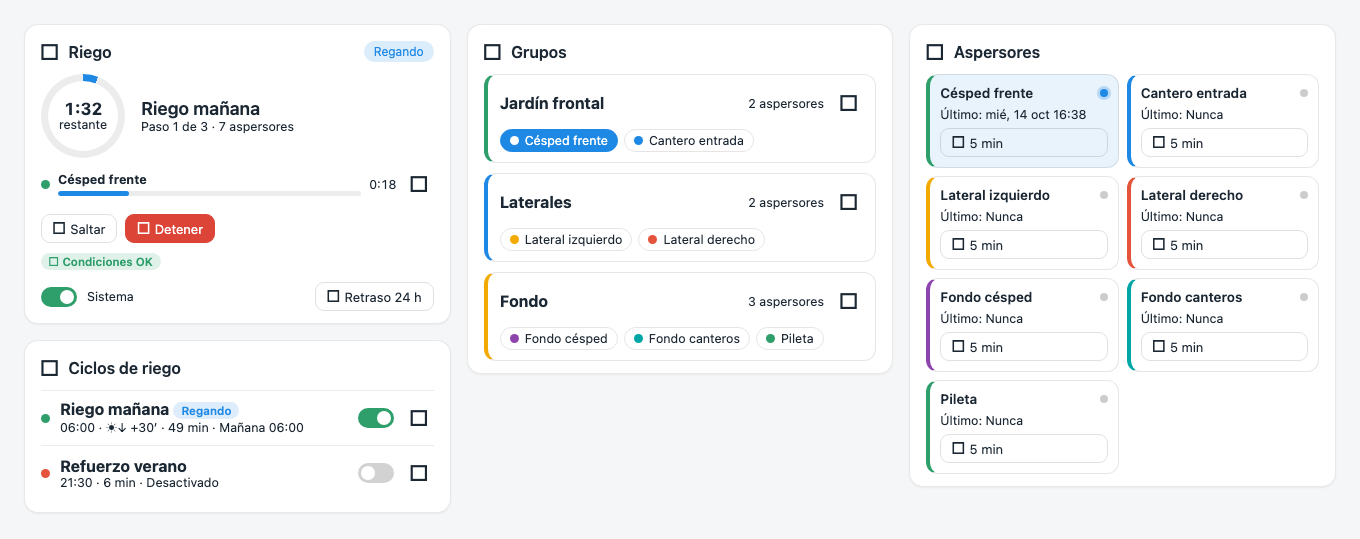
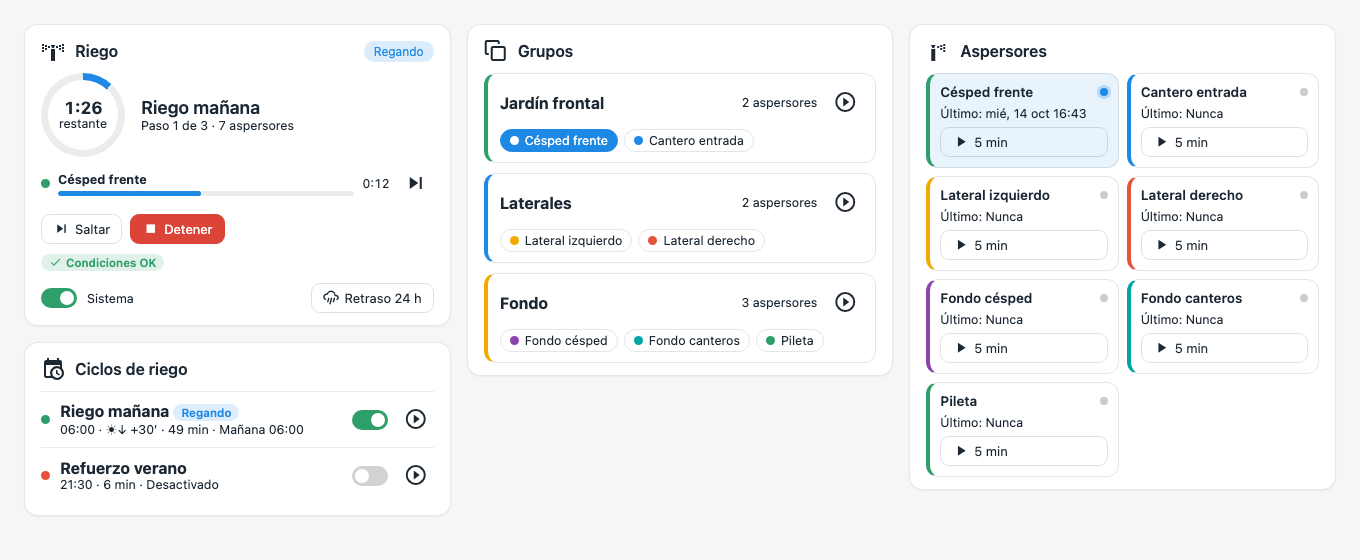
WIP 1.3.0: interactive drag-to-adjust timeline with zoom, docs
- Program editor timeline: drag a bar's edge to change that sprinkler's time
  (30 s steps, auto-switches the step to per-sprinkler times), drag the bar
  to reorder within its group; fixed scale while dragging; zoom levels with
  horizontal scroll, sticky labels and adaptive axis ticks.
- Sidebar preview keeps the KPIs; README sections for cards, timeline and
  donations; refreshed screenshots; CHANGELOG 1.3.0 (unreleased).

diff --git a/custom_components/sk_irrigation/frontend/sk-irrigation-panel.js b/custom_components/sk_irrigation/frontend/sk-irrigation-panel.js
@@ -99,7 +99,7 @@ class SkIrrigationPanel extends HTMLElement {
     sr.addEventListener("pointerdown", (e) => this._onPointerDown(e));
     sr.addEventListener("pointermove", (e) => this._onPointerMove(e));
     sr.addEventListener("pointerup", (e) => this._onPointerUp(e));
-    sr.addEventListener("pointercancel", () => this._cancelDrag());
+    sr.addEventListener("pointercancel", () => { if (this._tl) this._tlCancel(); else this._cancelDrag(); });
     sr.addEventListener("keydown", (e) => {
       if (this._pk && (e.target.dataset?.bind === "pk-search" || e.target.dataset?.suggest || e.key === "Escape")) this._pkKey(e);
     });
@@ -262,7 +262,7 @@ class SkIrrigationPanel extends HTMLElement {
   _programPlan(program) {
     const factor = (this._budget() / 100) * ((program.budget ?? 100) / 100);
     const maxMin = this._config.settings.max_zone_minutes || 120;
-    return (program.steps || []).map((step) => {
+    return (program.steps || []).map((step, si) => {
       const g = this._group(step.group_id);
       if (!g) return null;
       const skip = new Set(step.skip || []);
@@ -272,7 +272,7 @@ class SkIrrigationPanel extends HTMLElement {
         minutes = Math.min(Number(minutes) || 0, maxMin);
         return { zone_id: z.id, name: z.name, color: z.color, seconds: Math.round(minutes * 60 * factor) };
       }).filter((z) => z.seconds > 0);
-      return { label: g.name, color: g.color, concurrency: step.concurrency, zones };
+      return { label: g.name, color: g.color, concurrency: step.concurrency, zones, si };
     }).filter((s) => s && s.zones.length);
   }
 
@@ -794,8 +794,14 @@ class SkIrrigationPanel extends HTMLElement {
           ${section(2, "", this.t("calendar"), calendar)}
           ${section(3, "", this.t("start_times"), starts)}
           ${section(4, "", this.t("conditions_title"), `<p class="hint">${this.t("prog_cond_hint")}</p>${this._condEditorHtml("prog")}`)}
-          ${section(5, "", this.t("sequence"), sequence)}
-          ${section(6, "", this.t("advanced"), advanced)}
+          <div class="card tl-card"><div class="hd"><span class="section-n">5</span><h2>${this.t("tl_title")}</h2>
+            <span class="badge blue"><ha-icon icon="mdi:gesture-swipe-horizontal" style="--mdc-icon-size:14px"></ha-icon>${this.t("tl_badge")}</span>
+            <div class="seg tl-zoom"><button data-action="tl-zoom" data-v="-1" title="${this.t("zoom_out")}"><ha-icon icon="mdi:magnify-minus-outline"></ha-icon></button>
+              <button class="${this._tlZoom ? "" : "on"}" data-action="tl-zoom" data-v="0" title="${this.t("zoom_fit")}"><ha-icon icon="mdi:arrow-expand-horizontal"></ha-icon></button>
+              <button data-action="tl-zoom" data-v="1" title="${this.t("zoom_in")}"><ha-icon icon="mdi:magnify-plus-outline"></ha-icon></button></div></div>
+            <div class="bd" id="tl-body">${this._timelineHtml()}</div></div>
+          ${section(6, "", this.t("sequence"), sequence)}
+          ${section(7, "", this.t("advanced"), advanced)}
         </div>
         <div class="side">
           <div class="card"><div class="hd"><h3><ha-icon icon="mdi:vector-arrange-below"></ha-icon>${this.t("groups_palette")}</h3></div><div class="bd">
@@ -883,23 +889,142 @@ class SkIrrigationPanel extends HTMLElement {
     const zoneCount = sim.bars.length;
     const water = sim.bars.reduce((acc, b) => acc + ((this._zone(b.zone_id)?.flow_rate || 0) * b.seconds) / 60, 0);
     const cap = this._config.settings.max_concurrent;
-    const ticks = [0, 0.25, 0.5, 0.75, 1].map((f) => fmtDur(total * f));
     return `<div class="hd"><h3><ha-icon icon="mdi:chart-gantt"></ha-icon>${this.t("preview")}</h3></div><div class="bd">
       <div class="kpis"><div class="kpi"><b>${fmtDur(sim.total)}</b><span>${this.t("est_duration")}</span></div>
         <div class="kpi"><b>${zoneCount}</b><span>${this.t("zones")}</span></div>
         <div class="kpi"><b>${water ? `${Math.round(water)} L` : "—"}</b><span>${this.t("h_water")}</span></div></div>
-      ${sim.bars.length ? `<div class="sub muted small" style="margin:14px 0 8px">${this.t("timeline")}</div>
-      <div class="timeline">${sim.bars.map((b) => `<div class="tl-row"><span class="lab">${esc(b.name)}</span>
-        <div class="tl-track"><span class="tl-bar" style="--c:${esc(b.color)};left:${(b.start / total) * 100}%;width:${((b.end - b.start) / total) * 100}%"
-          title="${esc(b.name)} · ${fmtDur(b.end - b.start)}"></span></div></div>`).join("")}</div>
-      <div class="tl-axis"><span>${ticks[0]}</span><span>${ticks[2]}</span><span>${ticks[4]}</span></div>` : ""}
       <p class="hint" style="margin-top:12px">${this.t("sim_hint", { b: Math.round(this._budget() * (p.budget / 100)), c: cap || this.t("unlimited") })}</p>
     </div>`;
+  }
+
+  // ------------------------------------------------------------ interactive timeline
+  // Gantt of the program being edited. Drag a bar's right edge to change that
+  // sprinkler's time (30 s steps); drag the bar sideways to change its start
+  // order inside its group. The scale stays fixed while dragging.
+  _tlTicks(total) {
+    const nice = [60, 120, 300, 600, 900, 1800, 3600, 7200, 14400];
+    // ~7 ticks when fitted; with zoom, one tick every ~90 px
+    const target = this._tlZoom ? 90 / (this._tlZoom / 60) : total / 7;
+    const step = nice.find((n) => n >= target) || 14400;
+    const out = [];
+    for (let t = 0; t <= total + 1; t += step) out.push(t);
+    return { step, out };
+  }
+
+  _tlFactor() {
+    return (this._budget() / 100) * ((this._edit.budget ?? 100) / 100);
+  }
+
+  _timelineHtml() {
+    const p = this._edit;
+    const s = this._config.settings;
+    const plan = this._programPlan(p);
+    const zd = p.zone_delay_s >= 0 ? p.zone_delay_s : s.zone_delay_s;
+    const sd = p.step_delay_s >= 0 ? p.step_delay_s : s.step_delay_s;
+    const sim = simulate(plan, s.max_concurrent, zd, sd);
+    this._tlData = { plan, sim };
+    if (!sim.bars.length) return `<div class="empty small">${this.t("tl_empty")}</div>`;
+    const total = Math.max(60, sim.total);
+    const { step, out } = this._tlTicks(total);
+    const pct = (sec) => (sec / total) * 100;
+    const gridBg = `background-size:${pct(step)}% 100%`;
+    const can = this._can();
+    let html = "";
+    plan.forEach((ps, pi) => {
+      const conc = ps.concurrency === 0 ? this.t("all") : ps.concurrency === 1 ? this.t("sequential") : `${ps.concurrency} ${this.t("at_once")}`;
+      html += `<div class="tl2-step" style="--c:${esc(ps.color)}"><span class="dot" style="background:${esc(ps.color)}"></span>
+        ${pi + 1}. ${esc(ps.label)} <span class="muted">· ${conc}</span></div>`;
+      sim.bars.filter((b) => b.step === pi).forEach((b) => {
+        const secs = b.end - b.start;
+        html += `<div class="tl2-row"><span class="tl2-lab" title="${esc(b.name)}">${esc(b.name)}</span>
+          <div class="tl2-track" style="${gridBg}">
+            <div class="tl2-bar ${can ? "" : "ro"}" ${can ? `data-tl="move"` : ""} data-si="${ps.si}" data-z="${esc(b.zone_id)}" data-total="${total}"
+              data-start="${b.start}" data-secs="${secs}" style="--c:${esc(b.color)};left:${pct(b.start)}%;width:${pct(secs)}%"
+              title="${esc(b.name)} · ${fmtDur(secs)} (${fmtDur(b.start)} → ${fmtDur(b.end)})">
+              <span class="tl2-txt">${fmtDur(secs)}</span>
+              ${can ? `<i class="tl2-h" data-tl="resize"></i>` : ""}
+            </div>
+          </div></div>`;
+      });
+    });
+    const axis = out.map((t) => `<span style="left:${pct(t)}%">${t === 0 ? "0" : fmtDur(t)}</span>`).join("");
+    const zoom = this._tlZoom || 0; // px per minute, 0 = fit to width
+    const width = zoom ? `style="--tlw:${Math.round((total / 60) * zoom)}px"` : "";
+    return `<p class="hint">${this.t("tl_hint")}</p>
+      <div class="tl2-scroll"><div class="tl2 ${zoom ? "zoomed" : ""}" ${width}>${html}
+        <div class="tl2-row axis"><span></span><div class="tl2-axis">${axis}</div></div></div></div>`;
+  }
+
+  _tlDown(e, handle) {
+    const bar = handle.closest(".tl2-bar");
+    const rect = bar.parentElement.getBoundingClientRect();
+    this._tl = { mode: handle.dataset.tl, bar, si: Number(bar.dataset.si), z: bar.dataset.z, x: e.clientX, w: rect.width,
+      total: Number(bar.dataset.total), start: Number(bar.dataset.start), secs: Number(bar.dataset.secs), moved: false };
+    try { bar.setPointerCapture(e.pointerId); } catch (err) { /* ignore */ }
+    bar.classList.add("dragging");
+    e.preventDefault();
+  }
+
+  _tlMove(e) {
+    const d = this._tl;
+    const dx = e.clientX - d.x;
+    if (Math.abs(dx) > 3) d.moved = true;
+    const dsec = (dx / d.w) * d.total;
+    const txt = d.bar.querySelector(".tl2-txt");
+    if (d.mode === "resize") {
+      d.newSecs = Math.max(30, Math.round((d.secs + dsec) / 30) * 30);
+      d.bar.style.width = `${(d.newSecs / d.total) * 100}%`;
+      if (txt) txt.textContent = fmtDur(d.newSecs);
+      d.bar.dataset.tip = fmtDur(d.newSecs);
+    } else {
+      d.newStart = Math.max(0, d.start + dsec);
+      d.bar.style.transform = `translateX(${dx}px)`;
+      d.bar.dataset.tip = `${fmtDur(d.newStart)} →`;
+    }
+  }
+
+  _tlUp() {
+    const d = this._tl;
+    this._tl = null;
+    d.bar.classList.remove("dragging");
+    delete d.bar.dataset.tip;
+    if (!d.moved) { d.bar.style.transform = ""; return; }
+    const st = this._edit.steps[d.si];
+    const g = st && this._group(st.group_id);
+    if (!g) return;
+    if (d.mode === "resize") {
+      const factor = this._tlFactor() || 1;
+      const minutes = Math.max(0.5, Math.round((d.newSecs / 60 / factor) * 2) / 2);
+      if (st.duration_mode !== "custom") {
+        st.duration_mode = "custom";
+        g.zone_ids.forEach((z) => { if (st.durations[z] === undefined) st.durations[z] = st.duration; });
+        this._toast(this.t("tl_mode_switched", { g: g.name }));
+      }
+      st.durations[d.z] = minutes;
+    } else {
+      const { plan, sim } = this._tlData;
+      const others = sim.bars.filter((b) => plan[b.step].si === d.si && b.zone_id !== d.z).sort((a, b) => a.start - b.start);
+      const before = others.find((b) => b.start > d.newStart);
+      const order = this._stepOrder(st, g).filter((z) => z !== d.z);
+      const idx = before ? order.indexOf(before.zone_id) : order.length;
+      order.splice(idx < 0 ? order.length : idx, 0, d.z);
+      st.order = order;
+    }
+    this._dirty = true;
+    this._render();
+  }
+
+  _tlCancel() {
+    const d = this._tl;
+    this._tl = null;
+    if (d) { d.bar.classList.remove("dragging"); d.bar.style.transform = ""; this._refreshPreview(); }
   }
 
   _refreshPreview() {
     const el = this.shadowRoot.getElementById("editor-preview");
     if (el) el.innerHTML = this._previewHtml();
+    const tl = this.shadowRoot.getElementById("tl-body");
+    if (tl && !this._tl) tl.innerHTML = this._timelineHtml();
     const foot = this.shadowRoot.querySelector(".sticky-foot .muted");
     if (foot) foot.innerHTML = `<ha-icon icon="mdi:circle-medium" style="color:var(--ski-amber)"></ha-icon>${this.t("unsaved")}`;
   }
@@ -1464,6 +1589,17 @@ class SkIrrigationPanel extends HTMLElement {
         break;
       }
       case "groups-from-areas": this._groupsFromAreas(); break;
+      case "tl-zoom": {
+        const levels = [0, 4, 8, 16, 32, 64];
+        const v = Number(el.dataset.v);
+        let i = levels.indexOf(this._tlZoom || 0);
+        i = v === 0 ? 0 : Math.max(0, Math.min(levels.length - 1, i + v));
+        this._tlZoom = levels[i];
+        const body = this.shadowRoot.getElementById("tl-body");
+        if (body) body.innerHTML = this._timelineHtml();
+        this.shadowRoot.querySelectorAll(".tl-zoom button").forEach((b) => b.classList.toggle("on", b.dataset.v === "0" && !this._tlZoom));
+        return;
+      }
       case "cond-val": {
         const scope = el.dataset.scope;
         const c = this._condList(scope)[n];
@@ -1768,6 +1904,8 @@ class SkIrrigationPanel extends HTMLElement {
   // ------------------------------------------------------------ drag & drop
   _onPointerDown(e) {
     if (e.button > 0) return;
+    const tlHandle = e.target.closest("[data-tl]");
+    if (tlHandle) { this._tlDown(e, tlHandle); return; }
     const el = e.target.closest("[data-drag]");
     if (!el || e.target.closest("button, input, select, label, a")) return;
     if (el.hasAttribute("data-handle-only") && !e.target.closest(".grip")) return;
@@ -1775,6 +1913,7 @@ class SkIrrigationPanel extends HTMLElement {
   }
 
   _onPointerMove(e) {
+    if (this._tl) { this._tlMove(e); return; }
     const d = this._drag;
     if (!d) return;
     if (!d.started) {
@@ -1829,6 +1968,7 @@ class SkIrrigationPanel extends HTMLElement {
   }
 
   _onPointerUp() {
+    if (this._tl) { this._tlUp(); return; }
     const d = this._drag;
     this._drag = null;
     if (!d || !d.started) return;

diff --git a/custom_components/sk_irrigation/frontend/sk-irrigation-styles.js b/custom_components/sk_irrigation/frontend/sk-irrigation-styles.js
@@ -293,6 +293,43 @@ label.field > span { padding-left: 2px; }
 .donate-btn { background: #ffdd00; border-color: #e6c200; color: #222; text-decoration: none; font-weight: 600; }
 .donate-btn:hover { background: #ffe433; }
 
+/* interactive timeline */
+.tl-card { border-top: 4px solid var(--ski-water); }
+.editor > *, .editor .stack > *, .tl-card, .tl-card .bd { min-width: 0; }
+.tl2-scroll { max-width: 100%; overflow-x: auto; overscroll-behavior-x: contain; padding-top: 22px; margin-top: -14px; }
+.tl2 { display: flex; flex-direction: column; gap: 4px; user-select: none; -webkit-user-select: none; }
+.tl2.zoomed { width: max-content; }
+.tl2.zoomed .tl2-row { grid-template-columns: 170px var(--tlw); }
+.tl2.zoomed .tl2-lab, .tl2.zoomed .tl2-step { position: sticky; left: 0; z-index: 2; background: var(--ski-card); }
+.tl2.zoomed .tl2-step { width: max-content; padding-right: 12px; }
+.tl-zoom { margin-left: 4px; }
+.tl-zoom button { padding: 4px 8px; display: inline-flex; }
+.tl-zoom ha-icon { --mdc-icon-size: 18px; }
+.tl2-step { display: flex; align-items: center; gap: 6px; font-size: 12px; font-weight: 700; text-transform: uppercase; letter-spacing: .4px; margin: 10px 0 2px; }
+.tl2-step:first-child { margin-top: 0; }
+.tl2-step .muted { text-transform: none; letter-spacing: 0; font-weight: 500; }
+.tl2-step .dot { width: 9px; height: 9px; border-radius: 50%; }
+.tl2-row { display: grid; grid-template-columns: 170px minmax(0, 1fr); gap: 10px; align-items: center; }
+.tl2-lab { font-size: 13px; white-space: nowrap; overflow: hidden; text-overflow: ellipsis; }
+.tl2-track { position: relative; height: 30px; border-radius: 8px; background-color: rgba(127,127,127,.06);
+  background-image: linear-gradient(to right, color-mix(in srgb, var(--ski-line) 100%, transparent) 1px, transparent 1px); }
+.tl2-bar { position: absolute; top: 3px; bottom: 3px; min-width: 8px; border-radius: 6px; background: var(--c); color: #fff;
+  display: flex; align-items: center; overflow: visible; cursor: grab; touch-action: none; box-shadow: 0 1px 3px rgba(0,0,0,.18);
+  transition: box-shadow .15s; }
+.tl2-bar:hover { box-shadow: 0 0 0 2px color-mix(in srgb, var(--c) 40%, transparent), 0 2px 8px rgba(0,0,0,.2); }
+.tl2-bar.ro { cursor: default; }
+.tl2-bar.dragging { cursor: grabbing; z-index: 5; box-shadow: 0 0 0 3px color-mix(in srgb, var(--c) 45%, transparent), 0 6px 16px rgba(0,0,0,.25); transition: none; }
+.tl2-txt { font-size: 11.5px; font-weight: 600; padding: 0 8px; white-space: nowrap; overflow: hidden; text-overflow: clip; pointer-events: none; flex: 1; }
+.tl2-h { position: absolute; right: -4px; top: -3px; bottom: -3px; width: 12px; cursor: ew-resize; touch-action: none; border-radius: 4px; }
+.tl2-h::after { content: ""; position: absolute; right: 4px; top: 7px; bottom: 7px; width: 3px; border-radius: 2px; background: rgba(255,255,255,.85); }
+.tl2-bar[data-tip]::before { content: attr(data-tip); position: absolute; bottom: calc(100% + 6px); right: 0; background: #222; color: #fff;
+  font-size: 12px; font-weight: 600; padding: 3px 8px; border-radius: 6px; white-space: nowrap; pointer-events: none; }
+.tl2-row.axis { margin-top: 2px; }
+.tl2-axis { position: relative; height: 18px; font-size: 11px; color: var(--ski-muted); }
+.tl2-axis span { position: absolute; transform: translateX(-50%); white-space: nowrap; }
+.tl2-axis span:first-child { transform: none; }
+@media (max-width: 600px) { .tl2-row { grid-template-columns: 90px minmax(0, 1fr); } .tl2.zoomed .tl2-row { grid-template-columns: 90px var(--tlw); } }
+
 /* conditions */
 .cond-card { border: 1px solid var(--ski-line); border-radius: 12px; padding: 12px; display: flex; flex-direction: column; gap: 10px; background: rgba(127,127,127,.03); }
 .cond-card .cond-label { flex: 1; min-width: 160px; font-weight: 600; }

diff --git a/custom_components/sk_irrigation/frontend/sk-irrigation-i18n.js b/custom_components/sk_irrigation/frontend/sk-irrigation-i18n.js
@@ -40,6 +40,10 @@ export const I18N = {
     skip_hint: "Atajos rápidos: si alguno se activa, los riegos PROGRAMADOS se omiten y quedan en el historial. Los sensores de lluvia deben ser binarios (on = lloviendo).",
     skip_scope_hint: "No bloquean riegos manuales. Cada programa puede ignorarlos con \"Ignorar sensores de lluvia/clima\". Para lógica avanzada (mm acumulados, batería, plantillas) usá Condiciones personalizadas.",
     donate_title: "¿Te sirve SK Irrigation Manager?", donate_text: "Si te ahorra agua y tiempo, invitame un café para seguir mejorándolo.", donate_btn: "Invitame un café",
+    zoom_in: "Acercar", zoom_out: "Alejar", zoom_fit: "Ajustar al ancho",
+    tl_title: "Línea de tiempo", tl_badge: "Arrastrá para ajustar",
+    tl_hint: "Arrastrá el borde derecho de una barra para cambiar el tiempo de ese aspersor (pasos de 30 s). Arrastrá la barra hacia los lados para cambiar el orden de encendido dentro de su grupo.",
+    tl_empty: "Agregá grupos a la secuencia para ver la línea de tiempo.", tl_mode_switched: "\"{g}\" pasó a tiempo uno por uno",
     conditions_title: "Condiciones", conditions_lc: "condiciones", add_condition: "Agregar condición",
     no_conditions: "Sin condiciones.", cond_state: "Estado", cond_numeric: "Numérica", cond_template: "Plantilla",
     cond_label: "Nombre (ej. No está lloviendo)", cond_entity: "Entidad", cond_attribute: "Atributo (opcional)",
@@ -142,6 +146,10 @@ export const I18N = {
     skip_hint: "Quick shortcuts: if any triggers, SCHEDULED runs are skipped and logged. Rain sensors must be binary (on = raining).",
     skip_scope_hint: "They don't block manual runs. Each program can ignore them with \"Ignore rain/weather sensors\". For advanced logic (rain totals, battery, templates) use Custom conditions.",
     donate_title: "Enjoying SK Irrigation Manager?", donate_text: "If it saves you water and time, buy me a coffee to keep it improving.", donate_btn: "Buy me a coffee",
+    zoom_in: "Zoom in", zoom_out: "Zoom out", zoom_fit: "Fit to width",
+    tl_title: "Timeline", tl_badge: "Drag to adjust",
+    tl_hint: "Drag a bar's right edge to change that sprinkler's time (30 s steps). Drag the bar sideways to change its start order within its group.",
+    tl_empty: "Add groups to the sequence to see the timeline.", tl_mode_switched: "\"{g}\" switched to per-sprinkler times",
     conditions_title: "Conditions", conditions_lc: "conditions", add_condition: "Add condition",
     no_conditions: "No conditions.", cond_state: "State", cond_numeric: "Numeric", cond_template: "Template",
     cond_label: "Name (e.g. Not raining)", cond_entity: "Entity", cond_attribute: "Attribute (optional)",

diff --git a/README.md b/README.md
@@ -57,8 +57,8 @@ Sensores de lluvia, mm acumulados, clima, helada, energía solar o batería, o c
 </td>
 <td valign="top">
 
-### 📊 Vista previa Gantt
-Antes de guardar, ves la duración estimada, los litros y la línea de tiempo exacta de cada aspersor.
+### 📊 Línea de tiempo interactiva
+Ves cada aspersor en un Gantt y lo ajustás **arrastrando**: el borde cambia el tiempo y la barra cambia el orden. Con zoom para ciclos largos y la duración y los litros en vivo.
 
 </td>
 <td valign="top">
@@ -86,6 +86,27 @@ Válvula maestra o bomba, límite hidráulico de aspersores simultáneos, tiempo
 </table>
 
 > 💡 ¿Querés probar la interfaz sin instalar nada? Abrí [`dev/demo.html`](https://github.com/SkynetCom/sk-irrigation-manager-ha/blob/main/dev/demo.html) con un servidor local (ver [Desarrollo](#-desarrollo)).
+
+## 🧩 Tarjetas para dashboards
+
+La integración trae 4 tarjetas que **se cargan solas**: no hace falta agregar recursos. Editá un dashboard → **Agregar tarjeta** → buscá **"SK Riego"**.
+
+<p align="center"><img src="https://raw.githubusercontent.com/SkynetCom/sk-irrigation-manager-ha/main/docs/cards.png" alt="Tarjetas para dashboards" width="100%"></p>
+
+| Tarjeta | Qué muestra | Opciones |
+|---|---|---|
+| `custom:sk-irrigation-status-card` | Riego en curso con cuenta regresiva, aspersores activos, saltar/detener, próximo riego, condiciones, sistema y retraso por lluvia | `title`, `show_controls` |
+| `custom:sk-irrigation-programs-card` | Ciclos con horarios, duración, próximo riego, aviso si no se ejecutaría, activar y regar ahora | `title`, `show_run`, `show_disabled` |
+| `custom:sk-irrigation-groups-card` | Grupos con sus aspersores encendidos en vivo y riego rápido del grupo | `title`, `group`, `minutes`, `concurrency` |
+| `custom:sk-irrigation-zones-card` | Grilla de aspersores con estado, último riego y riego manual | `title`, `group`, `minutes` |
+
+```yaml
+type: custom:sk-irrigation-groups-card
+title: Riego del frente
+group: Jardín frontal   # nombre o id; vacío = todos
+minutes: [5, 10, 15]
+concurrency: 2
+```
 
 ## 🚀 Instalación
 
@@ -251,7 +272,7 @@ Si SK Irrigation Manager te ahorra agua y tiempo, podés invitarme un café para
 - **Programs** with multiple start times per day (fixed, sunrise or sunset), weekdays, every N days, days of the month, odd or even days, specific dates and active months.
 - **Per-step activation**: sequential, or 2, 3, 4 or N sprinklers at once, using a rolling queue. **Same-for-all or per-sprinkler** durations, in a custom order.
 - **Smart conditions** (state, numeric or Jinja template), global or per program. They can optionally be **re-checked before each sprinkler and while watering**, which suits rain totals or solar/battery protection.
-- **Gantt preview**, live dashboard, water budget (global, per program or from a sensor such as Smart Irrigation), master valve or pump, global concurrency limit, history, notifications and JSON backup.
+- **Interactive Gantt timeline** (drag to adjust times and order), **dashboard cards**, live dashboard, water budget (global, per program or from a sensor such as Smart Irrigation), master valve or pump, global concurrency limit, history, notifications and JSON backup.
 - **Rain Bird native**: exact durations through `rainbird.start_irrigation`.
 
 **Like it?** [Buy me a coffee via PayPal](https://www.paypal.com/donate/?business=gerencia%40skynetcom.com.ar&currency_code=USD&item_name=SK+Irrigation+Manager) ☕

diff --git a/CHANGELOG.md b/CHANGELOG.md
@@ -1,5 +1,19 @@
 # Changelog
 
+## 1.3.0 — sin publicar
+- **Línea de tiempo interactiva** en el editor de programas: arrastrá el borde de una barra para cambiar
+  el tiempo de ese aspersor (pasos de 30 s) o la barra entera para cambiar su orden de encendido; zoom
+  con desplazamiento horizontal para ciclos largos.
+- **Tarjetas para dashboards** (se cargan solas, sin recursos manuales): Estado, Ciclos, Grupos y Aspersores,
+  con editor visual y una única suscripción compartida.
+- Condiciones: **autocompletado** del campo Entidad con estado actual, **valores sugeridos** para condiciones de
+  estado y aviso de entidad inexistente.
+- Omisión rápida: explicación de uso, estado en vivo de cada sensor de lluvia, aviso de sensores no binarios
+  y resaltado del clima actual.
+- El estado y las tarjetas reaccionan **al instante** cuando cambia un sensor usado en condiciones.
+- Duración estimada de cada ciclo disponible para las tarjetas.
+- Botón de donación **Invitame un café** (PayPal) en README, GitHub Sponsor y Ajustes.
+
 ## 1.2.2 — 2026-10-15
 - README compatible con el visor de HACS: imágenes con URL absoluta y diagrama de flujo como imagen
   (HACS no resuelve rutas relativas ni dibuja Mermaid). Sin cambios funcionales.
